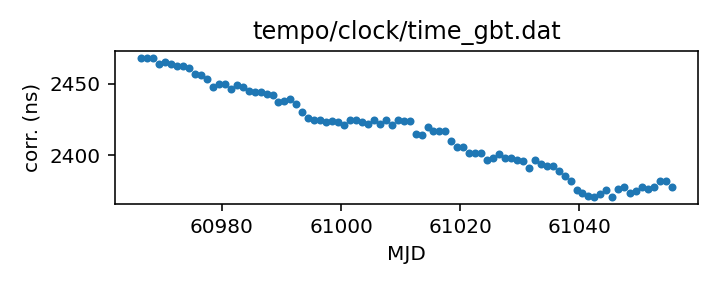
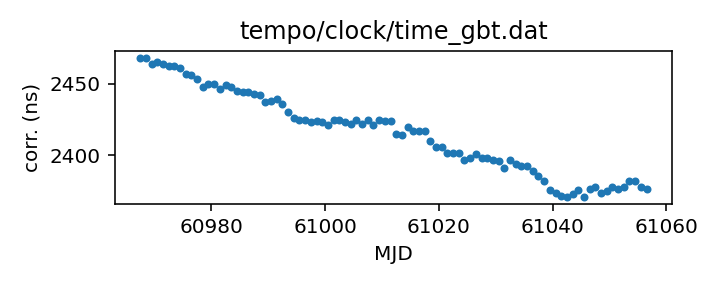
Routine gh-pages update from Github action Sat Jan 17 20:43:46 UTC 2026

diff --git a/status.md b/status.md
@@ -13,18 +13,18 @@ name of each clock file links to a page with more details.
 
 | Name | File | Corrections start | Corrections end | Last check date | Last check result 
 |:--- |:--- | --- | --- | --- |:--- 
-| [GPS to UTC](T2runtime/clock/gps2utc.clk.html) | `T2runtime/clock/gps2utc.clk` | 1993-01-01 MJD 48988.0 | 2025-12-30 MJD 61039.0 | 2026-01-16 | Unchanged 
-| [GPS to UTC (Combined Clock)](T2runtime/clock/gps2utc_cc.clk.html) | `T2runtime/clock/gps2utc_cc.clk` | 1993-01-01 MJD 48988.0 | 2025-12-30 MJD 61039.0 | 2026-01-16 | Unchanged 
-| [GPS to UTC (Corrected)](T2runtime/clock/gps2utc_c0p.clk.html) | `T2runtime/clock/gps2utc_c0p.clk` | 2010-12-29 MJD 55559.0 | 2025-12-30 MJD 61039.0 | 2026-01-16 | Unchanged 
-| [GBT](tempo/clock/time_gbt.dat.html) | `tempo/clock/time_gbt.dat` | 2000-12-31 MJD 51909.5 | 2026-01-15 MJD 61055.5 | 2026-01-16 | Updated 
-| [GBT (TEMPO2 converted from TEMPO)](T2runtime/clock/gbt2gps.clk.html) | `T2runtime/clock/gbt2gps.clk` | 2000-12-31 MJD 51909.5 | 2024-05-18 MJD 60448.5 | 2026-01-16 | **Validation failed** 
+| [GPS to UTC](T2runtime/clock/gps2utc.clk.html) | `T2runtime/clock/gps2utc.clk` | 1993-01-01 MJD 48988.0 | 2025-12-30 MJD 61039.0 | 2026-01-17 | Unchanged 
+| [GPS to UTC (Combined Clock)](T2runtime/clock/gps2utc_cc.clk.html) | `T2runtime/clock/gps2utc_cc.clk` | 1993-01-01 MJD 48988.0 | 2025-12-30 MJD 61039.0 | 2026-01-17 | Unchanged 
+| [GPS to UTC (Corrected)](T2runtime/clock/gps2utc_c0p.clk.html) | `T2runtime/clock/gps2utc_c0p.clk` | 2010-12-29 MJD 55559.0 | 2025-12-30 MJD 61039.0 | 2026-01-17 | Unchanged 
+| [GBT](tempo/clock/time_gbt.dat.html) | `tempo/clock/time_gbt.dat` | 2000-12-31 MJD 51909.5 | 2026-01-16 MJD 61056.5 | 2026-01-17 | Updated 
+| [GBT (TEMPO2 converted from TEMPO)](T2runtime/clock/gbt2gps.clk.html) | `T2runtime/clock/gbt2gps.clk` | 2000-12-31 MJD 51909.5 | 2024-05-18 MJD 60448.5 | 2026-01-17 | **Validation failed** 
 | [Jodrell Bank](T2runtime/clock/jb2gps.clk.html) | `T2runtime/clock/jb2gps.clk` | 2006-10-13 MJD 54021.4 | 2025-10-08 MJD 60956.0 | 2026-01-12 | **Validation failed** 
 | [Jodrell Bank Roach](T2runtime/clock/jbroach2jb.clk.html) | `T2runtime/clock/jbroach2jb.clk` | 2006-10-13 MJD 54021.4 | 2018-03-20 MJD 58197.6 | 2026-01-12 | Unchanged 
 | [Jodrell Bank DFB](T2runtime/clock/jbdfb2jb.clk.html) | `T2runtime/clock/jbdfb2jb.clk` | 2006-10-13 MJD 54021.4 | 2021-02-22 MJD 59268.0 | 2026-01-12 | Unchanged 
 | [Meerkat (observatory)](T2runtime/clock/mk2utc_observatory.clk.html) | `T2runtime/clock/mk2utc_observatory.clk` | 2019-01-01 MJD 58484.0 | 2026-01-07 MJD 61048.0 | 2026-01-12 | Updated 
-| [Leap seconds](tempo/clock/leap.sec.html) | `tempo/clock/leap.sec` | 1972-07-01 MJD 41499.0 | 2017-01-01 MJD 57754.0 | 2026-01-16 | Unchanged 
-| [UT1 table](tempo/clock/ut1.dat.html) | `tempo/clock/ut1.dat` | 1973-01-02 MJD 41684.0 | 2027-01-23 MJD 61428.0 | 2026-01-16 | Unchanged 
-| [UT1 table](T2runtime/clock/ut1.dat.html) | `T2runtime/clock/ut1.dat` | 1973-01-02 MJD 41684.0 | 2027-01-23 MJD 61428.0 | 2026-01-16 | Unchanged 
+| [Leap seconds](tempo/clock/leap.sec.html) | `tempo/clock/leap.sec` | 1972-07-01 MJD 41499.0 | 2017-01-01 MJD 57754.0 | 2026-01-17 | Unchanged 
+| [UT1 table](tempo/clock/ut1.dat.html) | `tempo/clock/ut1.dat` | 1973-01-02 MJD 41684.0 | 2027-01-23 MJD 61428.0 | 2026-01-17 | Unchanged 
+| [UT1 table](T2runtime/clock/ut1.dat.html) | `T2runtime/clock/ut1.dat` | 1973-01-02 MJD 41684.0 | 2027-01-23 MJD 61428.0 | 2026-01-17 | Unchanged 
 
 
 

diff --git a/T2runtime/clock/gbt2gps.clk.md b/T2runtime/clock/gbt2gps.clk.md
@@ -25,12 +25,11 @@ If questions arise about the conversion, contact Anne Archibald
 | Clock file start | 2000-12-31 MJD 51909.5 |
 | Clock file end | 2024-05-18 MJD 60448.5 |
 | Update interval (days) | 1 |
-| Last update attempt | 2026-01-16 |
+| Last update attempt | 2026-01-17 |
 | Last update result | Validation failed |
 
 Log entries from the last few update attempts:
 ```
-2026-01-07 20:47:54.189 - Validation failed: New version of T2runtime/clock/gbt2gps.clk MJDs differ from old version where they overlap in 8407 places
 2026-01-08 20:46:51.960 - Validation failed: New version of T2runtime/clock/gbt2gps.clk MJDs differ from old version where they overlap in 8407 places
 2026-01-09 20:46:23.076 - Validation failed: New version of T2runtime/clock/gbt2gps.clk MJDs differ from old version where they overlap in 8407 places
 2026-01-10 20:43:50.411 - Validation failed: New version of T2runtime/clock/gbt2gps.clk MJDs differ from old version where they overlap in 8407 places
@@ -40,6 +39,7 @@ Log entries from the last few update attempts:
 2026-01-14 20:44:43.789 - Validation failed: New version of T2runtime/clock/gbt2gps.clk MJDs differ from old version where they overlap in 8407 places
 2026-01-15 20:48:12.973 - Validation failed: New version of T2runtime/clock/gbt2gps.clk MJDs differ from old version where they overlap in 8407 places
 2026-01-16 20:43:37.676 - Validation failed: New version of T2runtime/clock/gbt2gps.clk MJDs differ from old version where they overlap in 8407 places
+2026-01-17 20:43:20.455 - Validation failed: New version of T2runtime/clock/gbt2gps.clk MJDs differ from old version where they overlap in 8407 places
 ```
 [Full log](https://raw.githubusercontent.com/ipta/pulsar-clock-corrections/main/log/T2runtime/clock/gbt2gps.clk.log)
 

diff --git a/tempo/clock/time_gbt.dat.md b/tempo/clock/time_gbt.dat.md
@@ -36,14 +36,13 @@ If questions arise, contact Ryan S. Lynch <rlynch@nrao.edu>.
 | Format | tempo |
 | Bogus last correction | False |
 | Clock file start | 2000-12-31 MJD 51909.5 |
-| Clock file end | 2026-01-15 MJD 61055.5 |
+| Clock file end | 2026-01-16 MJD 61056.5 |
 | Update interval (days) | 1 |
-| Last update attempt | 2026-01-16 |
+| Last update attempt | 2026-01-17 |
 | Last update result | Updated |
 
 Log entries from the last few update attempts:
 ```
-2026-01-07 20:47:54.118 - Updated
 2026-01-08 20:46:51.884 - Updated
 2026-01-09 20:46:23.004 - Updated
 2026-01-10 20:43:50.337 - Updated
@@ -53,12 +52,13 @@ Log entries from the last few update attempts:
 2026-01-14 20:44:43.715 - Updated
 2026-01-15 20:48:12.901 - Updated
 2026-01-16 20:43:37.602 - Updated
+2026-01-17 20:43:20.381 - Updated
 ```
 [Full log](https://raw.githubusercontent.com/ipta/pulsar-clock-corrections/main/log/tempo/clock/time_gbt.dat.log)
 
 Leading comments from clock file:
 
-     -2271.50       0.0        -0.486 1    32766-dec
+     -2271.50       0.0        -0.486 1    32767-dec
 
 
 

diff --git a/T2runtime/clock/gps2utc_c0p.clk.md b/T2runtime/clock/gps2utc_c0p.clk.md
@@ -30,12 +30,11 @@ about the BIPM's published corrections, contact <tai@bipm.org>.
 | Clock file start | 2010-12-29 MJD 55559.0 |
 | Clock file end | 2025-12-30 MJD 61039.0 |
 | Update interval (days) | 1 |
-| Last update attempt | 2026-01-16 |
+| Last update attempt | 2026-01-17 |
 | Last update result | Unchanged |
 
 Log entries from the last few update attempts:
 ```
-2026-01-07 20:47:52.918 - Unchanged
 2026-01-08 20:46:51.042 - Unchanged
 2026-01-09 20:46:21.741 - Updated
 2026-01-10 20:43:49.791 - Unchanged
@@ -45,6 +44,7 @@ Log entries from the last few update attempts:
 2026-01-14 20:44:42.715 - Unchanged
 2026-01-15 20:48:12.348 - Unchanged
 2026-01-16 20:43:36.648 - Unchanged
+2026-01-17 20:43:19.361 - Unchanged
 ```
 [Full log](https://raw.githubusercontent.com/ipta/pulsar-clock-corrections/main/log/T2runtime/clock/gps2utc_c0p.clk.log)
 

diff --git a/T2runtime/clock/gps2utc_cc.clk.md b/T2runtime/clock/gps2utc_cc.clk.md
@@ -29,12 +29,11 @@ about the BIPM's published corrections, contact <tai@bipm.org>.
 | Clock file start | 1993-01-01 MJD 48988.0 |
 | Clock file end | 2025-12-30 MJD 61039.0 |
 | Update interval (days) | 1 |
-| Last update attempt | 2026-01-16 |
+| Last update attempt | 2026-01-17 |
 | Last update result | Unchanged |
 
 Log entries from the last few update attempts:
 ```
-2026-01-07 20:47:52.910 - Unchanged
 2026-01-08 20:46:51.034 - Unchanged
 2026-01-09 20:46:21.715 - Updated
 2026-01-10 20:43:49.783 - Unchanged
@@ -44,6 +43,7 @@ Log entries from the last few update attempts:
 2026-01-14 20:44:42.707 - Unchanged
 2026-01-15 20:48:12.340 - Unchanged
 2026-01-16 20:43:36.640 - Unchanged
+2026-01-17 20:43:19.353 - Unchanged
 ```
 [Full log](https://raw.githubusercontent.com/ipta/pulsar-clock-corrections/main/log/T2runtime/clock/gps2utc_cc.clk.log)
 

diff --git a/T2runtime/clock/gps2utc.clk.md b/T2runtime/clock/gps2utc.clk.md
@@ -32,12 +32,11 @@ about the BIPM's published corrections, contact <tai@bipm.org>.
 | Clock file start | 1993-01-01 MJD 48988.0 |
 | Clock file end | 2025-12-30 MJD 61039.0 |
 | Update interval (days) | 1 |
-| Last update attempt | 2026-01-16 |
+| Last update attempt | 2026-01-17 |
 | Last update result | Unchanged |
 
 Log entries from the last few update attempts:
 ```
-2026-01-07 20:47:52.888 - Unchanged
 2026-01-08 20:46:51.012 - Unchanged
 2026-01-09 20:46:21.656 - Updated
 2026-01-10 20:43:49.760 - Unchanged
@@ -47,6 +46,7 @@ Log entries from the last few update attempts:
 2026-01-14 20:44:42.685 - Unchanged
 2026-01-15 20:48:12.318 - Unchanged
 2026-01-16 20:43:36.615 - Unchanged
+2026-01-17 20:43:19.331 - Unchanged
 ```
 [Full log](https://raw.githubusercontent.com/ipta/pulsar-clock-corrections/main/log/T2runtime/clock/gps2utc.clk.log)
 

diff --git a/tempo/clock/leap.sec.md b/tempo/clock/leap.sec.md
@@ -21,12 +21,11 @@ If there are any questions, contact Anne Archibald
 | File start | 1972-07-01 MJD 41499.0 |
 | File end | 2017-01-01 MJD 57754.0 |
 | Update interval (days) | 0 |
-| Last update attempt | 2026-01-16 |
+| Last update attempt | 2026-01-17 |
 | Last update result | Unchanged |
 
 Log entries from the last few update attempts:
 ```
-2026-01-07 20:47:54.215 - Unchanged
 2026-01-08 20:46:51.987 - Unchanged
 2026-01-09 20:46:23.102 - Unchanged
 2026-01-10 20:43:50.437 - Unchanged
@@ -36,5 +35,6 @@ Log entries from the last few update attempts:
 2026-01-14 20:44:43.815 - Unchanged
 2026-01-15 20:48:12.999 - Unchanged
 2026-01-16 20:43:37.702 - Unchanged
+2026-01-17 20:43:20.481 - Unchanged
 ```
 [Full log](https://raw.githubusercontent.com/ipta/pulsar-clock-corrections/main/log/tempo/clock/leap.sec.log)

diff --git a/T2runtime/clock/ut1.dat.md b/T2runtime/clock/ut1.dat.md
@@ -30,12 +30,11 @@ If there are any questions, contact Anne Archibald
 | File start | 1973-01-02 MJD 41684.0 |
 | File end | 2027-01-23 MJD 61428.0 |
 | Update interval (days) | 0 |
-| Last update attempt | 2026-01-16 |
+| Last update attempt | 2026-01-17 |
 | Last update result | Unchanged |
 
 Log entries from the last few update attempts:
 ```
-2026-01-07 20:48:06.345 - Unchanged
 2026-01-08 20:47:03.478 - Updated
 2026-01-09 20:46:35.596 - Unchanged
 2026-01-10 20:43:58.914 - Unchanged
@@ -45,5 +44,6 @@ Log entries from the last few update attempts:
 2026-01-14 20:44:54.058 - Unchanged
 2026-01-15 20:48:23.525 - Updated
 2026-01-16 20:43:49.655 - Unchanged
+2026-01-17 20:43:32.163 - Unchanged
 ```
 [Full log](https://raw.githubusercontent.com/ipta/pulsar-clock-corrections/main/log/T2runtime/clock/ut1.dat.log)

diff --git a/tempo/clock/ut1.dat.md b/tempo/clock/ut1.dat.md
@@ -30,12 +30,11 @@ If there are any questions, contact Anne Archibald
 | File start | 1973-01-02 MJD 41684.0 |
 | File end | 2027-01-23 MJD 61428.0 |
 | Update interval (days) | 0 |
-| Last update attempt | 2026-01-16 |
+| Last update attempt | 2026-01-17 |
 | Last update result | Unchanged |
 
 Log entries from the last few update attempts:
 ```
-2026-01-07 20:48:06.297 - Unchanged
 2026-01-08 20:47:03.428 - Updated
 2026-01-09 20:46:35.548 - Unchanged
 2026-01-10 20:43:58.865 - Unchanged
@@ -45,5 +44,6 @@ Log entries from the last few update attempts:
 2026-01-14 20:44:54.009 - Unchanged
 2026-01-15 20:48:23.476 - Updated
 2026-01-16 20:43:49.606 - Unchanged
+2026-01-17 20:43:32.114 - Unchanged
 ```
 [Full log](https://raw.githubusercontent.com/ipta/pulsar-clock-corrections/main/log/tempo/clock/ut1.dat.log)
